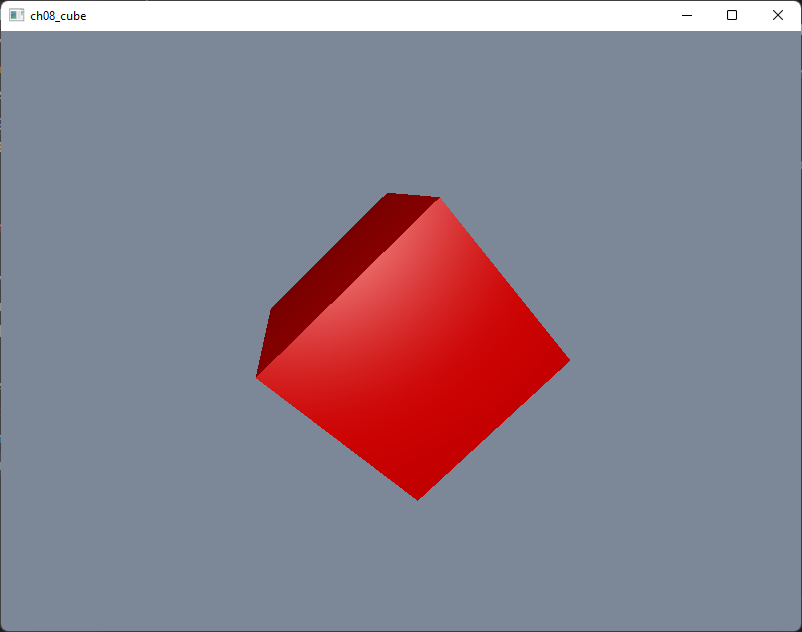
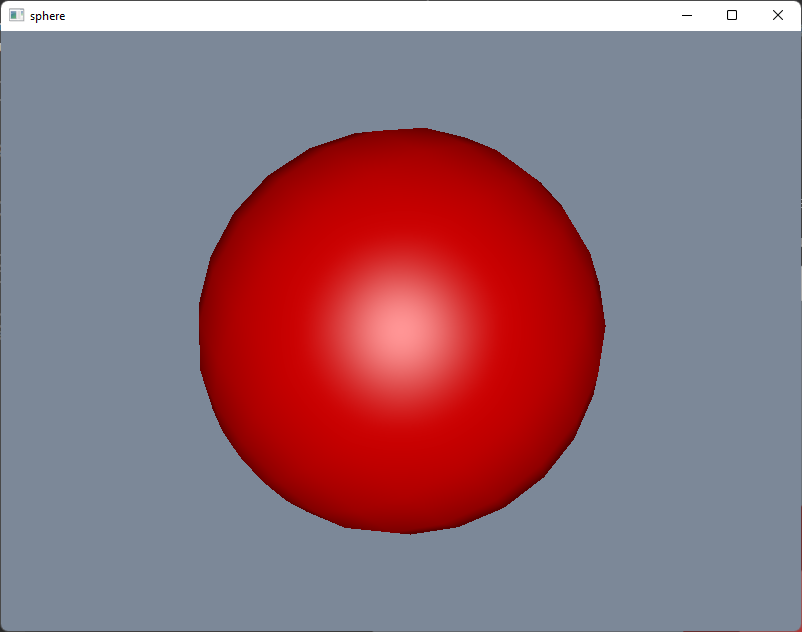
initial commit

diff --git a/README.md b/README.md
@@ -1,9 +1,9 @@
-# Rust *wgpu* Graphics Programming: Step-By-Step (10) 
-## Create a Cube with Lighting
+# Rust *wgpu* Graphics Programming: Step-By-Step (11) 
+## Create a Sphere with Lighting
 
-This is the source code for 10th video of the YouTube series on step-by-step Rust *wgpu* graphics programming.
+This is the source code for 11th video of the YouTube series on step-by-step Rust *wgpu* graphics programming.
 
-This sample *wgpu* app creates a cube with lighting. The output from this app is shown in the following image.
+This sample *wgpu* app creates a sphere with lighting. The output from this app is shown in the following image.
 
 ![wgpu10](src/images/image01.png)
 
